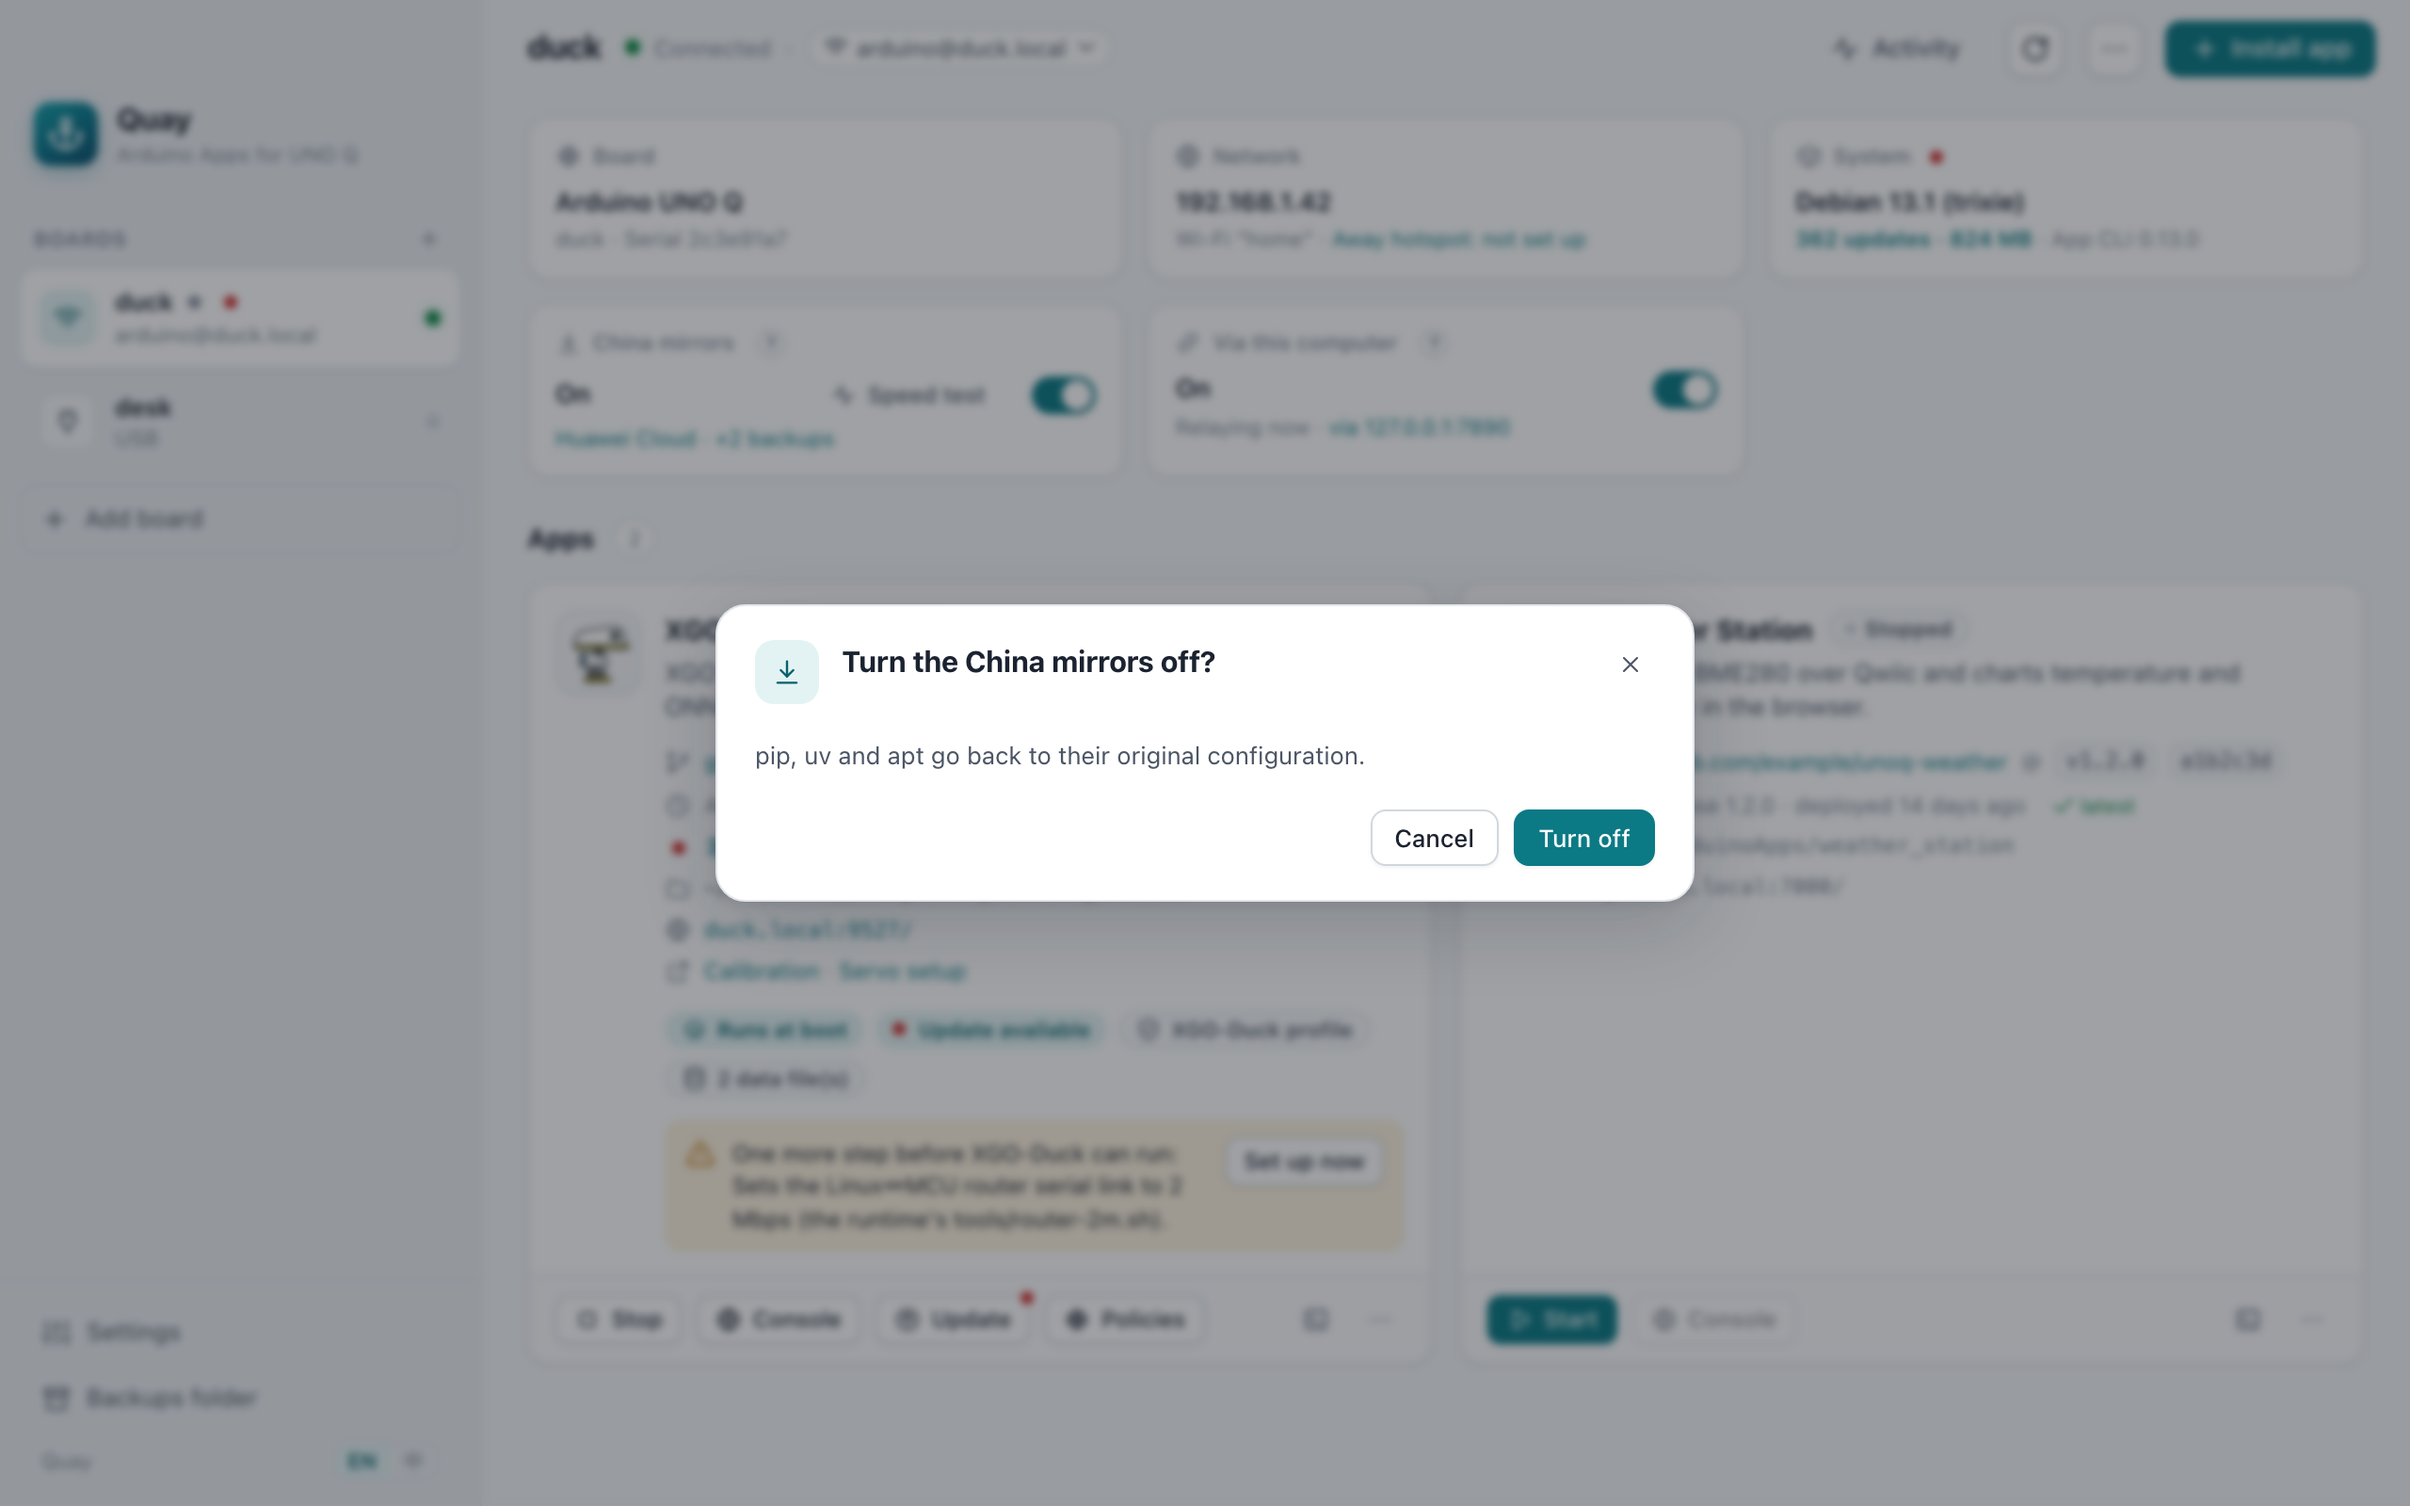
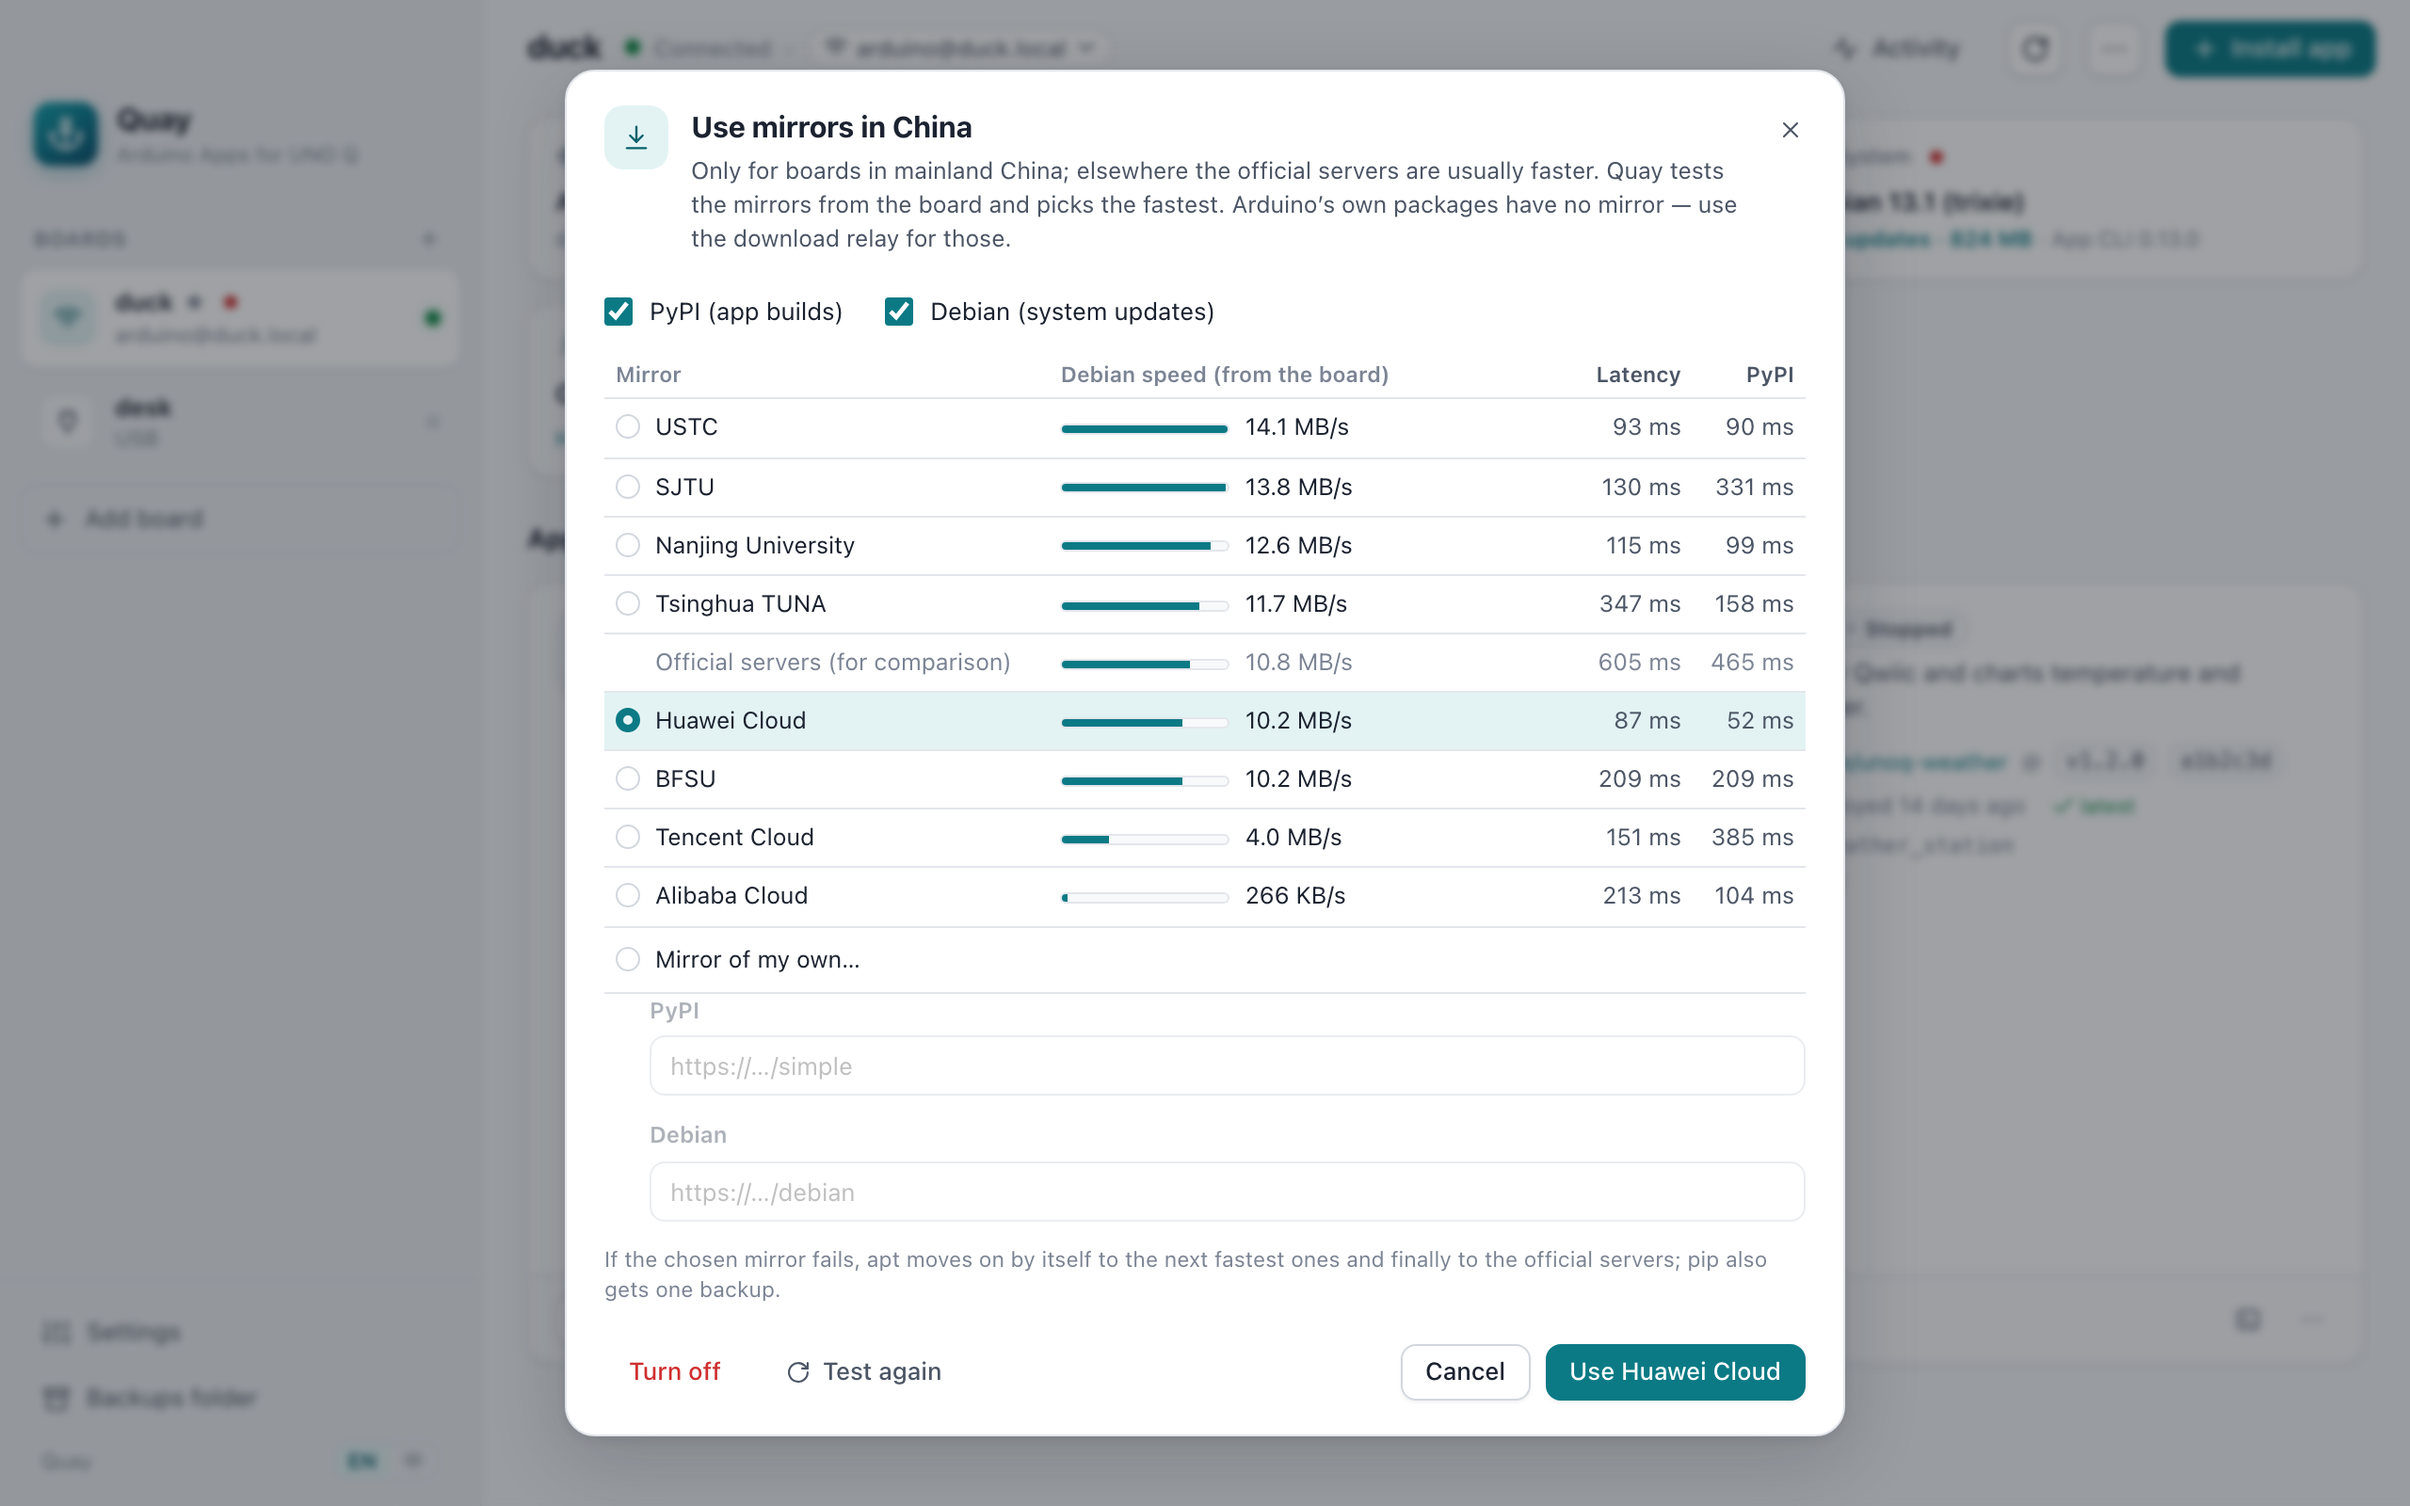
Screenshots: show the mirror speed test, not the turn-off question
The scene clicked the 国内加速 switch, which on a board with the mirrors
already on asks whether to turn them off; the README promised the speed
test results. It now clicks the speed test button.

diff --git a/build/screenshots.py b/build/screenshots.py
@@ -67,7 +67,7 @@ def scenes(page: Page, lang: str) -> None:
     start(page, lang)
     shot(page, "overview", lang)
 
-    page.click("[data-act=mirror]")
+    page.click("[data-act=mirror-test]")
     page.wait_for_timeout(3200)  # the speed test results stream in
     shot(page, "mirrors", lang)
     page.click("[data-act=modal-close]")
